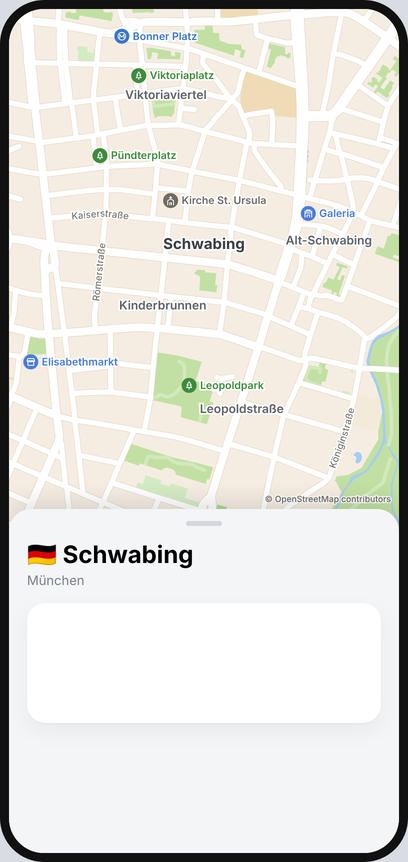
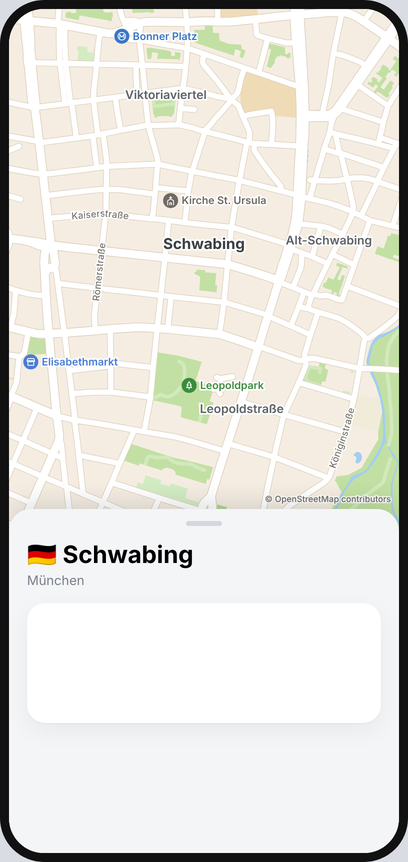
Map mockup: outlines at 3/4, four places spread apart, three quarter names beside the big one
Claude-Session: https://claude.ai/code/session_01TBUyc4nvbfrUF2uL1hRtAL

diff --git a/docs/mockups/phone-map/osm/osmmap.js b/docs/mockups/phone-map/osm/osmmap.js
@@ -200,10 +200,10 @@ if (GMAP) svg = `<rect width="${W}" height="${H}" fill="${C.land}"/>`
   + fill(L.bld, C.bld) + fill(L.station, '#e2dfda')
   // park paths as faces, not lines: the few long ones as a soft band one shade lighter than the grass, no rim
   + (L.park + L.forest ? `<defs><clipPath id="gp"><path d="${L.park + L.forest}"/></clipPath></defs><g clip-path="url(#gp)">${st(parkPaths(), C.foot, Math.max(3.6, mpx(4)))}</g>` : '')
-  + st(L.minor, C.edge, Math.max(5.5, mpx(8)) + 0.8) + st(L.mid, C.edge, Math.max(8, mpx(12)) + 0.9)
+  + st(L.minor, C.edge, Math.max(5.5, mpx(8)) + 1.2) + st(L.mid, C.edge, Math.max(8, mpx(12)) + 1.35)
   + st(L.minor, C.road, Math.max(5.5, mpx(8))) + st(L.mid, C.road, Math.max(8, mpx(12)))
   + st(L.rail, '#b8b6b2', 2.2) + st(L.rail, '#f4efe6', 0.9, ' stroke-dasharray="6 5"')
-  + st(L.major, C.majorEdge, Math.max(10, mpx(16)) + 0.9) + st(L.major, C.major, Math.max(10, mpx(16)));
+  + st(L.major, C.majorEdge, Math.max(10, mpx(16)) + 1.35) + st(L.major, C.major, Math.max(10, mpx(16)));
 // the park paths worth a soft band: measured only where they run inside a park and on screen, the longest few
 function parkPaths() {
   const inside = (x, y, ps) => { let c = false; for (let i = 0, j = ps.length - 1; i < ps.length; j = i++) { const [a, b] = ps[i], [u, v] = ps[j]; if ((b > y) !== (v > y) && x < (u - a) * (y - b) / (v - b) + a) c = !c; } return c; };
@@ -295,19 +295,23 @@ function gmapMarks(labels) {
   const hit = b => taken.some(c => b[0] < c[2] && b[2] > c[0] && b[1] < c[3] && b[3] > c[1]);
   const txt = (x, y, t, sz, wt, col, anchor = 'middle') => `<text x="${f(x)}" y="${f(y)}" text-anchor="${anchor}" font-family="-apple-system, 'Noto Sans KR', 'Hiragino Sans', sans-serif" font-size="${sz}" font-weight="${wt}" fill="${col}" stroke="#fff" stroke-width="3" stroke-linejoin="round" paint-order="stroke">${t}</text>`;
   // quarters first (they own the middle), then places, then streets in what is left
-  for (const [la, lo, n, sz, wt, col] of labels) { const [x, y] = P(la, lo), big = n === process.env.MAIN, z = big ? 15 : col === '#5a84ad' ? 11.5 : 12, w = n.length * z * 0.6;
+  let quarters = 0;
+  for (const [la, lo, n, sz, wt, col] of labels) { if (n !== process.env.MAIN && col !== '#5a84ad' && ++quarters > 3) continue;   // the big name + three quarters at most
+    const [x, y] = P(la, lo), big = n === process.env.MAIN, z = big ? 15 : col === '#5a84ad' ? 11.5 : 12, w = n.length * z * 0.6;
     const b = [x - w / 2 - 4, y - z - 2, x + w / 2 + 4, y + 4]; if (hit(b)) continue; taken.push(b);
     o += txt(x, y, n, z, big ? 700 : 600, col === '#5a84ad' ? '#4a7fb5' : big ? '#3c4043' : '#5f6368'); }
   const CAT = { food: '#e37400', cafe: '#e37400', bar: '#e37400', beer: '#e37400', bakery: '#e37400', wine: '#e37400', shop: '#4a7cd6', mall: '#4a7cd6', market: '#4a7cd6', fuel: '#4a7cd6',
     school: '#8a6d55', university: '#8a6d55', library: '#8a6d55', hospital: '#d14a3e', pharmacy: '#d14a3e', park: '#3d8b3d', garden: '#3d8b3d', forest: '#3d8b3d', playground: '#3d8b3d', zoo: '#3d8b3d', golf: '#3d8b3d',
     metro: '#3a76c4', train: '#3a76c4', tram: '#3a76c4', bus: '#3a76c4', ferry: '#3a76c4', airport: '#3a76c4', museum: '#1d8f9f', gallery: '#1d8f9f', theatre: '#1d8f9f', cinema: '#1d8f9f', music: '#1d8f9f', castle: '#1d8f9f', palace: '#1d8f9f', monument: '#1d8f9f', view: '#1d8f9f' };
-  const seen = new Set(); let n = 0;
+  const seen = new Set(), placed = []; let n = 0;
   for (const p of POIS.filter(q => q.name && q.name.length <= 22).sort((a, b) => b.pr - a.pr)) {
     if (seen.has(p.name)) continue; const [x, y] = p.at, col = CAT[p.ic] || '#6f6a64', w = p.name.length * 10.5 * 0.58 + 16;
     if (x < 10 || x + w > W - 4 || y < 14 || y > 482) continue;
-    const b = [x - 8, y - 9, x + w, y + 8]; if (hit(b)) continue; taken.push(b); seen.add(p.name);
+    const b = [x - 8, y - 9, x + w, y + 8]; if (hit(b)) continue;
+    if (placed.some(([u, v]) => Math.hypot(u - x, v - y) < 120)) continue;   // places spread out, not stacked
+    taken.push(b); seen.add(p.name); placed.push([x, y]);
     o += `<g transform="translate(${f(x)} ${f(y)})"><circle r="7.5" fill="${col}"/><g fill="none" stroke="#fff" stroke-width="2" stroke-linecap="round" stroke-linejoin="round" transform="translate(-5 -5) scale(.42)">${glyph(p.ic)}</g></g>` + txt(x + 11, y + 3.6, p.name, 10.5, 600, col, 'start');
-    if (++n >= 14) break; }
+    if (++n >= 4) break; }
   // streets: the longest pieces, upright text along the line
   const sn = new Set();
   for (const s2 of STREETS.map(q => ({ ...q, len: q.ps.reduce((a, pt, i) => i ? a + Math.hypot(pt[0] - q.ps[i - 1][0], pt[1] - q.ps[i - 1][1]) : 0, 0) })).sort((a, b) => b.rank - a.rank || b.len - a.len)) {
